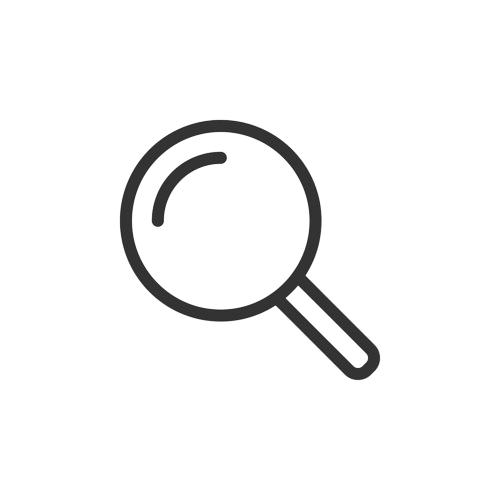
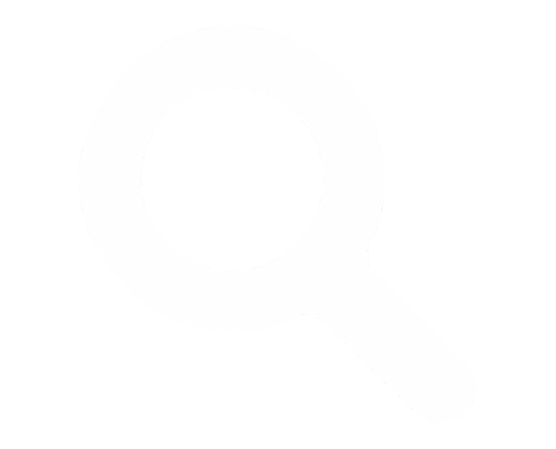
Arreglo de estilos

Changed region(s): [[0.24, 0.2183, 0.78, 0.7795]]

diff --git a/css/style.css b/css/style.css
@@ -18,7 +18,7 @@ body {
 #campoBusqueda {
     display: none;
     padding: 5px;
-    width: 150px;
+    width: 170px;
     transition: width 1s;
 }
 
@@ -49,15 +49,15 @@ body {
 
 #resultadosContainer {
     position: absolute;
-    width: 350px;
+    width: 500px;
     max-height: 200px; /* Ajusta la altura máxima según tus necesidades */
     overflow-y: auto; /* Agrega una barra de desplazamiento vertical si es necesario */
     top: 100%;
     left: 0;
     z-index: 1001; /* Asegura que esté encima de la barra */
-    background-color: white; /* Puedes ajustar el color de fondo según tus preferencias */
-    box-shadow: 0px 10px 10px rgba(0, 0, 0, 0.8);
-    color: rgb(6, 5, 5);
+    background-color: rgb(41, 40, 40); /* Puedes ajustar el color de fondo según tus preferencias */
+    box-shadow: 0px 10px 10px rgba(244, 243, 243, 0.8);
+    color: rgb(254, 254, 254);
     font-size: 14px;
     font-family: 'Poppins', sans-serif;
     border-radius: 10px;
@@ -86,7 +86,9 @@ body {
     display: flex;
     align-items: center;
     position: relative;
+    margin: 5px;
 }
+
 
 #campoBusqueda {
     padding: 8px; /* Ajusta el espacio interno según tus preferencias */
@@ -119,6 +121,13 @@ body {
 .nav__link {
     text-decoration: none;
     color: white;
+    font-size: 24px;
+}
+.nav__link:hover {
+    text-decoration: none;
+    color: rgb(158, 157, 157);
+    font-size: 32px;
+    transition: 0.5s;
 }
 
 .Inicio_container {

diff --git a/index.html b/index.html
@@ -15,7 +15,7 @@
                     <input type="text" id="campoBusqueda" placeholder="Buscar">
                     <a class="nav__link" id="linkBuscar">Buscar</a>
                     <button id="botonAceptarBusqueda" style="display: none;" onclick="realizarBusqueda()">Aceptar
-                    <img src="lupa.png" height="30px" width="30px" ></button>
+                    <img src="lupa.png" height="30px" width="40px" ></button>
                     <div id="resultadosContainer" class="ocultar">
                     <ul id="resultadosBusqueda"></ul>
                     </div>
